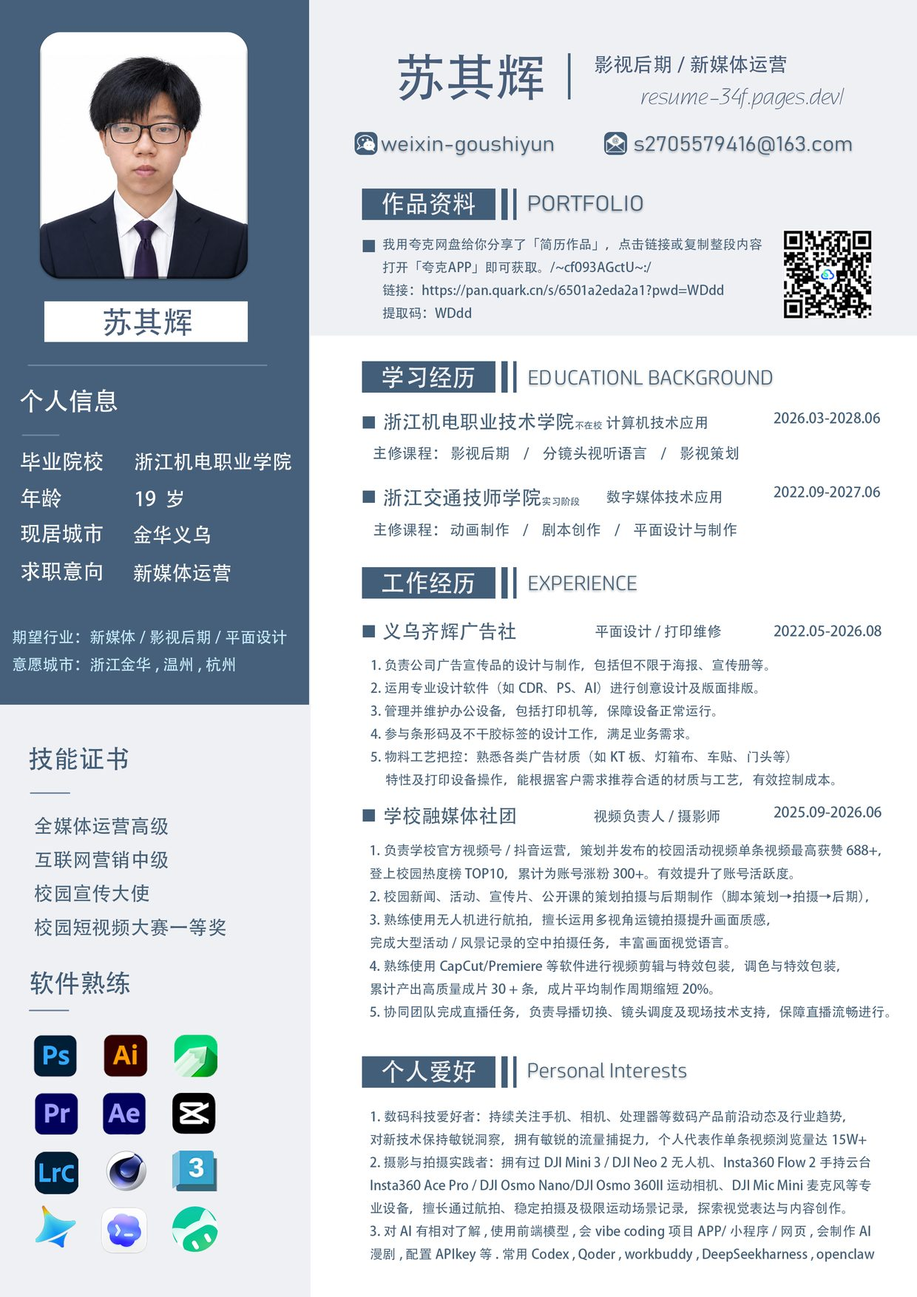
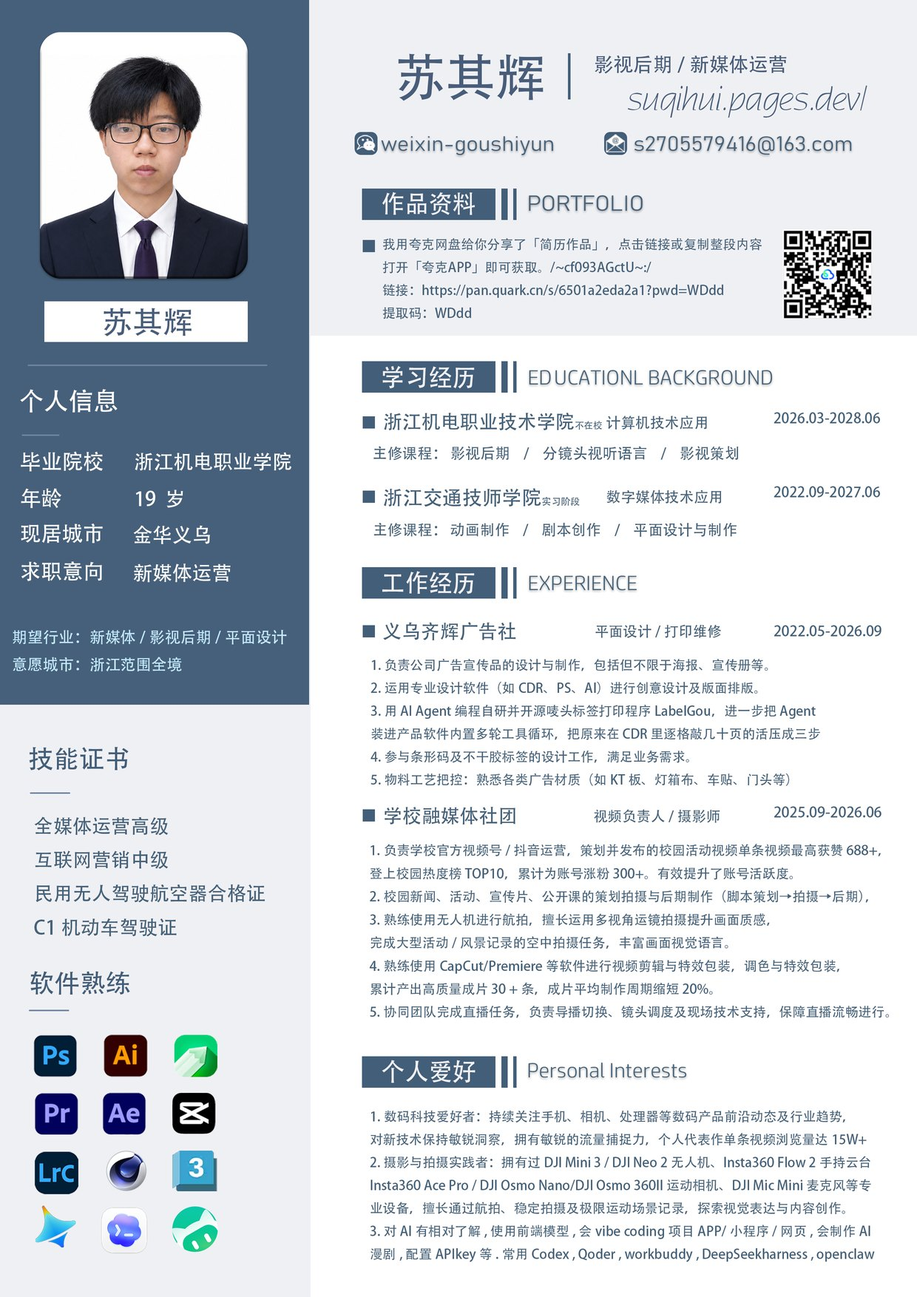
第二十三轮：修回退（顶栏透明态、抽屉玻璃材质）+ 换简历图 + 经历栏照搬简历
顶栏全程半透明是我把选择器写成 `.nav, .nav.is-scrolled` 造成的，撤销即可，
不该在 §⑨ 重复声明底色；抽屉"不像玻璃"是因为我用了 .88+blur26 而不是仓库
§⑤ 早就为手机端调好的令牌（.68 + blur10），现在全部改读 var(--glass-*)。
顺带补上 §⑨ 绕过 prefers-reduced-transparency 降级的问题。

简历图换成 2.9 版（2480x3508/2.6MB → 1240x1754/329KB，?v=2.9）。
经历栏逐字照搬简历，同时暴露出 max-height 钉死 200px 会截断长条目
（齐辉 340px、融媒体 515px），改成 JS 按 scrollHeight 展开、CSS 留 60rem 兜底。

diff --git a/css/v2-style.css b/css/v2-style.css
@@ -236,17 +236,14 @@ section.on-video { background: rgba(6,7,10,.30); }
   text-shadow: 0 0 2px rgba(0,0,0,.95), 0 1px 3px rgba(0,0,0,.85), 0 3px 16px rgba(0,0,0,.7);
 }
 /* 顶部导航未吸顶时（只在首屏出现）压在深色视频上，墨色同步转浅。
-   ⚠ 只给桌面：手机端顶部栏现在是常驻玻璃（见 ≤768px 那组），底子不透明了，
-   再套浅墨就会在白玻璃上糊成一片，所以手机端要走主题自己的墨色。 */
-@media (min-width: 769px) {
-  .nav:not(.is-scrolled) {
-    --text: #f5f6fa; --text-2: rgba(245,246,250,.72);
-    color: var(--text);  /* 同理：.nav__name 无自身 color，继承自这里 */
-  }
-  .nav:not(.is-scrolled) .nav__link {
-    background: rgba(255,255,255,.10); border-color: rgba(255,255,255,.16);
-    box-shadow: inset 0 1px 0 rgba(255,255,255,.10);
-  }
+   手机端同样需要这条：吸顶前的顶栏是透明的，见 §⑨ 9.1。 */
+.nav:not(.is-scrolled) {
+  --text: #f5f6fa; --text-2: rgba(245,246,250,.72);
+  color: var(--text);  /* 同理：.nav__name 无自身 color，继承自这里 */
+}
+.nav:not(.is-scrolled) .nav__link {
+  background: rgba(255,255,255,.10); border-color: rgba(255,255,255,.16);
+  box-shadow: inset 0 1px 0 rgba(255,255,255,.10);
 }
 /* 首屏头像已移除（原引用 headshot.webp 线上 404 导致破图） */
 .hero__eyebrow { font-size: 0.85rem; letter-spacing: 0.3em; color: var(--text-2); margin-bottom: 20px; }
@@ -879,7 +876,11 @@ button.cert { width: 100%; font: inherit; color: var(--text); cursor: pointer; -
 }
 .tl__detail p { color: var(--text-2); font-size: 0.92rem; margin-bottom: 6px; }
 .tl__detail p:last-child { margin-bottom: 0; }
-.tl__item.is-open .tl__detail { max-height: 200px; opacity: 1; margin-top: 0.5rem; padding-top: 0.5rem; padding-bottom: 0.5rem; }
+/* max-height 由 JS 按内容实际高度写死（详见 v2-main.js 的时间线一节）。
+   这里留一个足够大的兜底值：原来钉死 200px，逐字搬进简历的五条长句后
+   齐辉那条要 340px、融媒体那条要 515px，超过一半内容点开了也看不见。
+   JS 没跑起来时至少保证文字是完整的，只是展开动画的行程会长一点。 */
+.tl__item.is-open .tl__detail { max-height: 60rem; opacity: 1; margin-top: 0.5rem; padding-top: 0.5rem; padding-bottom: 0.5rem; }
 
 /* =========================================================
    v2 移动端响应式修复
@@ -1295,54 +1296,37 @@ button.cert { width: 100%; font: inherit; color: var(--text); cursor: pointer; -
    「01 — 关于」这样的编号，菜单里复用它等于提前告诉用户"点了会落到哪一节"。
    ------------------------------------------------------------------------- */
 @media (max-width: 768px) {
-  /* 9.1 顶部栏：手机端常驻玻璃。材质和 .card 那套一致 ——
-     半透明填充 + 140° 斜向光泽 + 顶边内高光 + 细线描边 + 双层投影，
-     只给 blur 是"糊了一层"，不是玻璃。 */
-  .nav,
-  .nav.is-scrolled {
-    background-color: rgba(255, 255, 255, var(--glass-alpha-nav));
-    background-image: linear-gradient(140deg, rgba(255, 255, 255, .5) 0%, var(--glass-sheen) 52%, rgba(255, 255, 255, .3) 100%);
-    -webkit-backdrop-filter: blur(20px) saturate(190%) brightness(var(--glass-bright));
-    backdrop-filter: blur(20px) saturate(190%) brightness(var(--glass-bright));
-    border-bottom: 1px solid var(--glass-hairline);
-    box-shadow:
-      inset 0 1px 0 var(--glass-highlight),
-      inset 0 -1px 0 rgba(17, 20, 28, .05),
-      0 2px 6px rgba(16, 24, 40, .07),
-      0 10px 28px rgba(16, 24, 40, .10);
-  }
-  /* 深色必须换成不透光的深底。玻璃层原本那套是"页面纯黑 + 白玻璃 .10"，
-     可顶部栏底下是 Showreel 视频，片里 10.28s 有一帧整幅白闪（meanY 235），
-     白玻璃叠白闪 = 浅墨直接糊掉。深底 + 顶部一道白色内高光才有厚度。 */
-  [data-theme="dark"] .nav,
+  /* 9.1 顶栏：吸顶态的玻璃由 §10 玻璃层统一负责，这里**不再重复声明** ——
+     上一轮写了 `.nav, .nav.is-scrolled {...}`，把未吸顶的透明态一起糊掉了，
+     "透明 → 下滑变玻璃"的过渡就没了。这里只补一处手机端深色修正：
+     玻璃层原本给深色导航的是"白玻璃 .10"，可顶栏底下是 Showreel 视频，
+     片里 10.28s 有一帧整幅白闪（meanY 235），白玻璃叠白闪浅墨直接糊掉，
+     所以手机端深色改用薄深底撑住对比。 */
   [data-theme="dark"] .nav.is-scrolled {
-    background-color: rgba(10, 11, 14, .74);
-    background-image: linear-gradient(140deg, rgba(255, 255, 255, .10) 0%, rgba(255, 255, 255, .03) 52%, rgba(255, 255, 255, 0) 100%);
+    background-color: rgba(10, 11, 14, .62);
+    background-image: linear-gradient(140deg, rgba(255, 255, 255, .10) 0%, rgba(255, 255, 255, .03) 55%, rgba(255, 255, 255, 0) 100%);
     border-bottom-color: rgba(255, 255, 255, .10);
-    box-shadow:
-      inset 0 1px 0 rgba(255, 255, 255, .12),
-      inset 0 -1px 0 rgba(0, 0, 0, .5),
-      0 2px 6px rgba(0, 0, 0, .4),
-      0 12px 30px rgba(0, 0, 0, .5);
+    box-shadow: inset 0 1px 0 rgba(255, 255, 255, .12), 0 2px 6px rgba(0, 0, 0, .4), 0 10px 28px rgba(0, 0, 0, .5);
   }
 
-  /* 9.2 抽屉：浮起的玻璃片。浅色原来"平"是因为只有填充没有材质三件套，
-     现在斜向光泽 + 顶边内高光 + 底边内暗线 + 紧/松两层投影一起上。 */
+  /* 9.2 抽屉：浮起的玻璃片。材质参数一律复用 §⑤ 为手机端调好的令牌
+     （light: --glass-alpha .68 / --glass-blur 10px），和 .card 完全同源。
+     上一轮自己写成 .88 + blur(26px)，比卡片实心一倍、糊得更狠，
+     所以"看着不像同一种玻璃"—— 这不是调参能救的，是不该另发明一套数。 */
   .nav__links {
     position: fixed; top: 64px; left: 12px; right: 12px; z-index: 10002;
     display: flex; flex-direction: column; gap: 0;
     padding: 6px; border-radius: 16px;
-    background-color: rgba(255, 255, 255, .88);
-    background-image: linear-gradient(140deg, rgba(255, 255, 255, .62) 0%, var(--glass-sheen) 46%, rgba(255, 255, 255, .34) 100%);
-    -webkit-backdrop-filter: blur(26px) saturate(190%);
-    backdrop-filter: blur(26px) saturate(190%);
+    background-color: rgba(255, 255, 255, var(--glass-alpha));
+    background-image: linear-gradient(140deg, rgba(255, 255, 255, .55) 0%, var(--glass-sheen) 50%, rgba(255, 255, 255, .38) 100%);
+    -webkit-backdrop-filter: blur(var(--glass-blur)) saturate(var(--glass-sat)) brightness(var(--glass-bright));
+    backdrop-filter: blur(var(--glass-blur)) saturate(var(--glass-sat)) brightness(var(--glass-bright));
     border: 1px solid var(--glass-hairline);
     box-shadow:
-      inset 0 1px 0 rgba(255, 255, 255, .95),
-      inset 0 -1px 0 rgba(17, 20, 28, .07),
+      inset 0 1px 0 var(--glass-highlight),
+      inset 0 -1px 0 rgba(17, 20, 28, .06),
       0 1px 2px rgba(16, 24, 40, .10),
-      0 10px 22px rgba(16, 24, 40, .14),
-      0 26px 56px rgba(16, 24, 40, .16);
+      0 12px 28px rgba(16, 24, 40, .16);
     max-height: calc(var(--vport-h, 100svh) - 84px);
     overflow-y: auto; overscroll-behavior: contain;
     transform-origin: 50% 0;
@@ -1354,15 +1338,14 @@ button.cert { width: 100%; font: inherit; color: var(--text); cursor: pointer; -
     opacity: 1; visibility: visible; pointer-events: auto; transform: none;
   }
   [data-theme="dark"] .nav__links {
-    background-color: rgba(18, 20, 26, .92);
-    background-image: linear-gradient(140deg, rgba(255, 255, 255, .10) 0%, rgba(255, 255, 255, .03) 46%, rgba(255, 255, 255, 0) 100%);
+    background-color: rgba(16, 18, 24, .72);
+    background-image: linear-gradient(140deg, rgba(255, 255, 255, .10) 0%, rgba(255, 255, 255, .03) 50%, rgba(255, 255, 255, 0) 100%);
     border-color: rgba(255, 255, 255, .10);
     box-shadow:
       inset 0 1px 0 rgba(255, 255, 255, .14),
-      inset 0 -1px 0 rgba(0, 0, 0, .55),
+      inset 0 -1px 0 rgba(0, 0, 0, .5),
       0 1px 2px rgba(0, 0, 0, .45),
-      0 12px 26px rgba(0, 0, 0, .5),
-      0 28px 60px rgba(0, 0, 0, .55);
+      0 14px 34px rgba(0, 0, 0, .55);
   }
 
   /* 9.3 行：左名称右编号。行高压到 44px（原来 50px 显得松，但不能再低 ——
@@ -1411,4 +1394,20 @@ button.cert { width: 100%; font: inherit; color: var(--text); cursor: pointer; -
 
   /* 9.6 遮罩：点它关抽屉。压在内容之上、导航之下（.nav 是 100）。 */
   .nav.is-open ~ .nav-scrim { opacity: 1; visibility: visible; }
+}
+
+/* 9.7 系统开"降低透明度"时的退化（§10 ④ 那份清单里没有抽屉，这里补上，
+   否则手机端抽屉会绕过无障碍降级）。 */
+@media (max-width: 768px) and (prefers-reduced-transparency: reduce) {
+  .nav__links {
+    background-image: none;
+    -webkit-backdrop-filter: none; backdrop-filter: none;
+    background-color: #fbfbfd;
+  }
+  [data-theme="dark"] .nav__links,
+  [data-theme="dark"] .nav.is-scrolled {
+    background-image: none;
+    -webkit-backdrop-filter: none; backdrop-filter: none;
+    background-color: #161617;
+  }
 }

diff --git a/index.html b/index.html
@@ -7,7 +7,7 @@
 <meta name="description" content="苏其辉 — 多媒体设计师。平面设计 / 影视后期 / 摄影航拍 / 新媒体运营作品集。" />
 <meta name="theme-color" content="#ffffff" />
 <link rel="icon" href="assets/img/icons/favicon.svg" type="image/svg+xml" />
-<link rel="stylesheet" href="css/v2-style.css?v=neo45" />
+<link rel="stylesheet" href="css/v2-style.css?v=neo46" />
 <script>
 (function () {
   try {
@@ -120,8 +120,8 @@
           <li data-reveal data-reveal-delay="240"><span class="num" data-count="8">0</span><em>款软件</em></li>
         </ul>
       </div>
-      <button class="about__card tilt-card" id="aboutCard" data-reveal data-reveal-delay="120" data-lightbox="solo" data-src="assets/img/resume/cv.jpg?v=2.8.1" data-title="苏其辉 个人简历" aria-label="点击查看个人简历大图">
-        <img src="assets/img/resume/cv.jpg?v=2.8.1" alt="苏其辉 个人简历" />
+      <button class="about__card tilt-card" id="aboutCard" data-reveal data-reveal-delay="120" data-lightbox="solo" data-src="assets/img/resume/cv.jpg?v=2.9" data-title="苏其辉 个人简历" aria-label="点击查看个人简历大图">
+        <img src="assets/img/resume/cv.jpg?v=2.9" alt="苏其辉 个人简历" />
         <span class="about__card-badge">多媒体设计师</span>
         <span class="about__card-overlay"><span class="about__card-overlay-text">点击查看大图</span></span>
       </button>
@@ -248,17 +248,16 @@
       <div class="tl__item" data-reveal>
         <span class="tl__dot"></span>
         <div class="tl__card">
-          <span class="tl__date">2022.09 — 2027.06（开启实习）</span>
-          <h3 class="tl__title">浙江交通技师学院 <span class="tl__badge">中专/中技</span></h3>
+          <span class="tl__date">2022.09 — 2027.06</span>
+          <h3 class="tl__title">浙江交通技师学院 <span class="tl__badge">实习阶段</span></h3>
           <p class="tl__sub">数字媒体技术应用</p>
-          <p class="tl__meta">主修：动画制作 / 剧本创作 / 平面设计与制作</p>
           <button class="tl__toggle" aria-label="展开详情">
             <svg class="tl__arrow" width="12" height="12" viewBox="0 0 12 12" aria-hidden="true"><path d="M2 4l4 4 4-4" stroke="currentColor" stroke-width="1.5" fill="none" stroke-linecap="round" stroke-linejoin="round"/></svg>
           </button>
           <div class="tl__detail">
-            <p>主修广告设计与制作，熟练掌握 CorelDRAW 制版与印刷工艺</p>
-            <p>在校期间参与校园宣传设计，获校园短视频大赛一等奖</p>
-            <p>代表作品：标签制版系列 / 校园活动海报设计</p>
+            <p>主修课程：动画制作</p>
+            <p>主修课程：剧本创作</p>
+            <p>主修课程：平面设计与制作</p>
           </div>
         </div>
       </div>
@@ -266,33 +265,33 @@
         <span class="tl__dot"></span>
         <div class="tl__card">
           <span class="tl__date">2026.03 — 2028.06</span>
-          <h3 class="tl__title">浙江机电职业技术学院 <em>（函授）</em><span class="tl__badge">大专</span></h3>
-          <p class="tl__sub">数字媒体技术应用</p>
-          <p class="tl__meta">主修：影视后期 / 分镜头视听语言 / 影视策划</p>
+          <h3 class="tl__title">浙江机电职业技术学院 <span class="tl__badge">不在校</span></h3>
+          <p class="tl__sub">计算机技术应用</p>
           <button class="tl__toggle" aria-label="展开详情">
             <svg class="tl__arrow" width="12" height="12" viewBox="0 0 12 12" aria-hidden="true"><path d="M2 4l4 4 4-4" stroke="currentColor" stroke-width="1.5" fill="none" stroke-linecap="round" stroke-linejoin="round"/></svg>
           </button>
           <div class="tl__detail">
-            <p>函授大专，数字媒体技术方向</p>
-            <p>深化 PS / AI 平面设计能力与影视后期全流程</p>
-            <p>目标：新媒体运营与视觉设计岗</p>
+            <p>主修课程：影视后期</p>
+            <p>主修课程：分镜头视听语言</p>
+            <p>主修课程：影视策划</p>
           </div>
         </div>
       </div>
       <div class="tl__item" data-reveal>
         <span class="tl__dot"></span>
         <div class="tl__card">
-          <span class="tl__date">2020.05 — 兼职</span>
-          <h3 class="tl__title">义乌齐辉广告社 <span class="tl__badge">家族企业</span></h3>
+          <span class="tl__date">2022.05 — 2026.09</span>
+          <h3 class="tl__title">义乌齐辉广告社 <span class="tl__badge">工作经历</span></h3>
           <p class="tl__sub">平面设计 / 打印维修</p>
-          <p class="tl__meta">从实战中打磨平面设计与物料落地能力。</p>
           <button class="tl__toggle" aria-label="展开详情">
             <svg class="tl__arrow" width="12" height="12" viewBox="0 0 12 12" aria-hidden="true"><path d="M2 4l4 4 4-4" stroke="currentColor" stroke-width="1.5" fill="none" stroke-linecap="round" stroke-linejoin="round"/></svg>
           </button>
           <div class="tl__detail">
-            <p>从兼职到核心设计，家族企业实战起步</p>
-            <p>负责 CDR 排版制版 → 印刷全流程把控</p>
-            <p>积累了 5 年实战标签打印与广告制作经验</p>
+            <p>1. 负责公司广告宣传品的设计与制作，包括但不限于海报、宣传册等。</p>
+            <p>2. 运用专业设计软件（如 CDR、PS、AI）进行创意设计及版面排版。</p>
+            <p>3. 用 AI Agent 编程自研并开源唛头标签打印程序 LabelGou，进一步把 Agent 装进产品软件内置多轮工具循环，把原来在 CDR 里逐格敲几十页的活压成三步</p>
+            <p>4. 参与条形码及不干胶标签的设计工作，满足业务需求。</p>
+            <p>5. 物料工艺把控：熟悉各类广告材质（如 KT 板、灯箱布、车贴、门头灯）</p>
           </div>
         </div>
       </div>
@@ -300,16 +299,17 @@
         <span class="tl__dot"></span>
         <div class="tl__card">
           <span class="tl__date">2025.09 — 2026.06</span>
-          <h3 class="tl__title">学校融媒体社团 <span class="tl__badge">社团</span></h3>
+          <h3 class="tl__title">学校融媒体社团 <span class="tl__badge">工作经历</span></h3>
           <p class="tl__sub">视频负责人 / 摄影师</p>
-          <p class="tl__meta">统筹校园影像内容，负责拍摄、剪辑与发布。</p>
           <button class="tl__toggle" aria-label="展开详情">
             <svg class="tl__arrow" width="12" height="12" viewBox="0 0 12 12" aria-hidden="true"><path d="M2 4l4 4 4-4" stroke="currentColor" stroke-width="1.5" fill="none" stroke-linecap="round" stroke-linejoin="round"/></svg>
           </button>
           <div class="tl__detail">
-            <p>负责官方账号视觉内容策划与制作</p>
-            <p>短视频拍摄 + 剪辑 + 后期全链路</p>
-            <p>获校园宣传大使称号</p>
+            <p>1. 负责学校官方视频号 / 抖音运营，策划并发布的校园活动视频单条视频最高获赞 688+，登上校园热度榜 TOP10，累计为账号涨粉 300+。有效提升了账号活跃度。</p>
+            <p>2. 校园新闻、活动、宣传片、公开课的策划拍摄与后期制作（脚本策划→拍摄→后期）</p>
+            <p>3. 熟练使用无人机进行航拍，擅长运用多视角运镜拍摄提升画面质感，完成大型活动 / 风景记录的空中拍摄任务，丰富画面视觉语言。</p>
+            <p>4. 熟练使用 CapCut/Premiere 等软件进行视频剪辑与特效包装，调色与特效包装，累计产出高质量成片 30+ 条，成片平均制作周期缩短 20%。</p>
+            <p>5. 协同团队完成直播任务，负责导播切换、镜头调度及现场技术支持，保障直播流畅进行。</p>
           </div>
         </div>
       </div>
@@ -629,6 +629,6 @@
   <span class="back-top__text">UP</span>
 </button>
 
-<script src="js/v2-main.js?v=neo17"></script>
+<script src="js/v2-main.js?v=neo18"></script>
 </body>
 </html>

diff --git a/js/v2-main.js b/js/v2-main.js
@@ -433,11 +433,17 @@
   }
 
   /* ---------- 可展开时间线：点整张卡片展开（v2 升级） ---------- */
+  var tlItems = [];
   document.querySelectorAll('.tl__item').forEach(function (item) {
     var toggle = item.querySelector('.tl__toggle');
     var detail = item.querySelector('.tl__detail');
+    function fit() {
+      // 展开态下把 max-height 钉成内容实际高：写死 200px 会把长条目截掉
+      if (detail) detail.style.maxHeight = item.classList.contains('is-open') ? detail.scrollHeight + 'px' : '0px';
+    }
     function setOpen(open) {
       item.classList.toggle('is-open', open);
+      fit();
       if (toggle) toggle.setAttribute('aria-expanded', open ? 'true' : 'false');
     }
     if (toggle) toggle.setAttribute('aria-expanded', 'false');
@@ -446,7 +452,12 @@
       if (detail && item.classList.contains('is-open') && detail.contains(e.target)) return;
       setOpen(!item.classList.contains('is-open'));
     });
+    tlItems.push({ item: item, fit: fit });
   });
+  // 换行会变（转屏、窗口缩放），重算一次展开条目的实际高度
+  window.addEventListener('resize', function () {
+    for (var i = 0; i < tlItems.length; i++) tlItems[i].fit();
+  }, { passive: true });
 
   /* ---------- 装备散开效果初始化 ---------- */
   var gearItems = document.querySelectorAll('.gear__item');

diff --git a/AGENTS.md b/AGENTS.md
@@ -5,7 +5,7 @@
 > 基底版本：`HTTP/resume-34f.pages.dev/resume-main`（含 2026-09-12 三轮改动）
 > 与线上 https://resume-34f.pages.dev 的关系：**本目录就是线上源码**，已接回 git 仓库
 > `github.com/su-qihui/resume`（main），推 main 即由 Cloudflare Pages 自动重建发布。2026-09-29 起同步。
-> 更新日期：2026-10-08（第二十二轮）
+> 更新日期：2026-10-08（第二十三轮）
 
 ## 1. 一句话定位
 
@@ -89,7 +89,7 @@
 | 技能图标联动 | `.radar-dot[data-skill-index]` ↔ `.skill-icon[data-skill]` | 双向 hover 高亮 |
 | 装备散开入场 | `.gear__item[data-angle]` | JS 注入 `--angle/--lift/--scale`，每件错位 60ms；`lifts`/`scales` 数组按 DOM 顺序对齐，**增减装备必须同步改数组** |
 | 背景 Emoji 互动层 | `#emojiBg`（`<canvas>`，`z-index:-1`） | 点击任意处召唤 8~14 个 emoji，重力 0.5 / 摩擦 0.985 / 弹跳 0.7 / 粒子碰撞；上限 90 个，**首次掉到底部后 3s 淡出、0.4s 内消失**；**≤768px 手机端整体关闭**（CSS `display:none` + JS `matchMedia` 短路，不初始化引擎、点击也不响应） |
-| 时间线展开 | **点 `.tl__item` 任意处** → `.is-open`（`.tl__toggle` 只当箭头 + 键盘焦点，`aria-expanded` 由 JS 同步） | `max-height` 0 → 200px；展开后点 `.tl__detail` 内的文字不收起（可选中） |
+| 时间线展开 | **点 `.tl__item` 任意处** → `.is-open`（`.tl__toggle` 只当箭头 + 键盘焦点，`aria-expanded` 由 JS 同步） | `max-height` 由 JS 写成 `detail.scrollHeight`（收起时 `0px`），`resize` 重算；CSS 只留 `60rem` 兜底。**别改回写死的 px**：原来钉 200px，第二十三轮把简历五条长句逐字搬进来后齐辉要 340px、融媒体要 515px，点开也只能看见前三条。展开后点 `.tl__detail` 内的文字不收起（可选中） |
 | 作品集筛选 | `.tab[data-filter]` → `.gallery[data-group]` | 切换时 80ms 错位入场 |
 | 灯箱 | `[data-lightbox]` = `image` / `video` / `gear` / `solo` | Esc 关、←→ 切换、点遮罩关；`video` 类型自动 play；`solo` 为单图查看（不参与任何图库） |
 | 作品卡即播（桌面悬停 / 手机停留） | 同一套 `inlinePlay/inlineStop(imgEl)`，状态挂在 `imgEl._ip`（`{vid,bar,fill,timer,hideBar}`），首次才建 `<video class="card__vid">`；分流开关是 `isTouchLike` | `preload="none"` + 首次触发才赋 src；淡入盖封面、`.card__play` 隐掉。**慢网才出进度条**：起播挂 260ms 定时器 → `.card__buf.is-on`，`playing`/停止时撤掉，宽度取 `buffered.end/duration`。桌面绑 `mouseenter/leave`；触屏走 `setupPhoneAutoPlay()`：IO 阈值 0.6 收集在屏卡 → **首次起播要停留 500ms，已在播则切下一张立即生效** → 全站只播离视口中线最近的一张，切换先 `inlineStop` 旧的。`navigator.connection` 的 `saveData` 或 `effectiveType` 含 2g/3g 时整套闸住，退回点卡片开灯箱，并监听 `connection.change`。**`openLb()` 第一件事是 `stopAllInline()`**，否则卡片面和灯箱面一起出声；`reduceMotion` 下整套不启用 |
@@ -846,3 +846,43 @@ G="/c/Program Files/Git/cmd/git.exe"; cd "/e/vibe coding/Resume/HTTP/mbl-resume-
    `background-image` 含 `linear-gradient`（片与顶栏各一处 = 斜向光泽到位）、顶栏 `box-shadow` 4 层、
    行的 `animation-name: nav-row-in`；圆角 16px、左右各 12px、遮罩/Esc 关闭照旧；
    最坏情况对比度 浅 **16.55:1** / 深 **14.07:1**；`Runtime.exceptionThrown` 0 条。
+**2026-10-08（第二十三轮：修我上一轮引入的两条回退 + 换简历图 + 经历栏逐字照搬简历）**
+用户真机复测后四条。前两条是我第二十一/二十二轮弄出来的回退，按"先找根因再改"走了一遍。
+
+1. **回退①：顶栏从"透明→下滑变玻璃"变成了全程半透明。**
+   根因用 `git show f2510b7` 直接定位到我自己写的那行选择器：`+  .nav,` 和 `.nav.is-scrolled` 并列，
+   等于未吸顶也上了底子；同时我把"未吸顶转浅墨"那条收进了 `@media (min-width:769px)`，手机端连浅墨也没了。
+   **修法不是调参，是把这两处撤销**：§⑨ 里不再声明 `.nav` 的底色（交回 §10 玻璃层的 `.nav.is-scrolled`），
+   `.nav:not(.is-scrolled)` 那组恢复全局。手机端深色只保留一处必要修正（见第 3 条的理由）。
+2. **回退②：抽屉/顶栏"不像玻璃"。** 并排量了已经做对的 `.card`：它是
+   `rgba(255,255,255,.68) + blur(10px) saturate(1.8) brightness(1)`，
+   而我给抽屉写的是 **`.88 + blur(26px)`** —— 比卡片实心一档、糊得更狠，所以看着是白面板不是玻璃。
+   更该记的教训是：**仓库 §⑤ 早就为手机端调过一套玻璃令牌**（`--glass-blur:10px / --glass-alpha:.68 /
+   --glass-alpha-nav:.72`，注释写着"可读性优先"），我没读就自己发明了一组数。
+   修法：抽屉的填充、模糊、饱和、亮度全部改成读 `var(--glass-*)`，和 `.card` 同源。
+3. ⚠ **顺带查出我自己引入的第三个问题**：§⑨ 写在 `@media (prefers-reduced-transparency: reduce)` 降级块**之后**，
+   手机端抽屉会绕过无障碍降级。补了 §9.7 专门覆盖抽屉与深色顶栏的降级路径。
+   （深色顶栏用薄深底而不是玻璃层原本的"白玻璃 .10"是有依据的：顶栏底下是 Showreel，
+   片里 10.28s 有一帧整幅白闪 meanY 235，白玻璃叠白闪浅墨读不出。）
+4. **换简历照片**：`PNG\个人简历-苏其辉-2.9.jpg`（2480×3508 / 2.6 MB）→ 缩到 **1240×1754 / 329 KB**
+   覆盖 `assets/img/resume/cv.jpg`，两处引用 `?v=2.8.1 → ?v=2.9`。
+   旧图不另存副本（git 历史里有），一度写进站点目录的 `cv-2.8.1.jpg` 已删 —— 那会被一起部署。
+5. **经历栏逐字照搬简历**（用户"就写一模一样的就好"）。四条卡片：
+   浙江交通技师学院（实习阶段 / 数字媒体技术应用 / 主修三条）、浙江机电职业技术学院（不在校 /
+   **计算机技术应用**，原来站点写的是"数字媒体技术应用"，专业名以简历为准）、
+   义乌齐辉广告社（**2022.05—2026.09**，原来写的 2020.05—兼职 与简历不符）、学校融媒体社团，
+   两条工作条目各 5 条职责原样录入；删掉的是原来那些简历里没有的自撰小结（"家族企业实战起步"等）。
+6. 🔴 **搬完暴露一个真 bug**：`.tl__item.is-open .tl__detail { max-height: 200px }` 是钉死的，
+   五条长句进来后齐辉要 **340px**、融媒体要 **515px** —— 点开也只能看见前三条。
+   改成 JS 按 `detail.scrollHeight` 写 `max-height`（收起归 0）、`resize` 时重算，
+   CSS 侧只留 `60rem` 作为无 JS 兜底。
+7. 版本号：CSS `neo46`，JS `neo18`。
+8. **验证**：先写判据再改（`navtest.mjs` 六条断言，改前 4 条 FAIL）。改后全 PASS ——
+   未吸顶 `rgba(0,0,0,0)`、吸顶 `alpha .72 + blur`、抽屉 alpha 与 `.card` 同为 **.68** 且 blur 同为 10px、
+   reduce 下顶栏退化 `.97 + none`、抽屉退化不透明。
+   展开走真实点击：手机 390 四条 `103/103 103/103 340/340 515/515`、桌面 1440 `103/103 103/103 190/190 240/240`
+   全部无截断，收起归 0、再展开仍正确；`#aboutCard img` 实测 `naturalWidth 1240x1754` 加载完成。
+   ⚠ 两条踩过的测法坑：(a) 直接 `classList.add('is-open')` 会绕过 JS 的 `setOpen`，
+   又在同一帧读 `getBoundingClientRect` → 读出 16px 的假截断；必须点卡片再量。
+   (b) 本机 Chrome 的 `prefers-reduced-transparency` 会被 Windows「透明效果」设置影响，
+   且 localStorage 残留的深色主题会让读数全偏 —— 量材质前先清 localStorage 并锁浅色。
